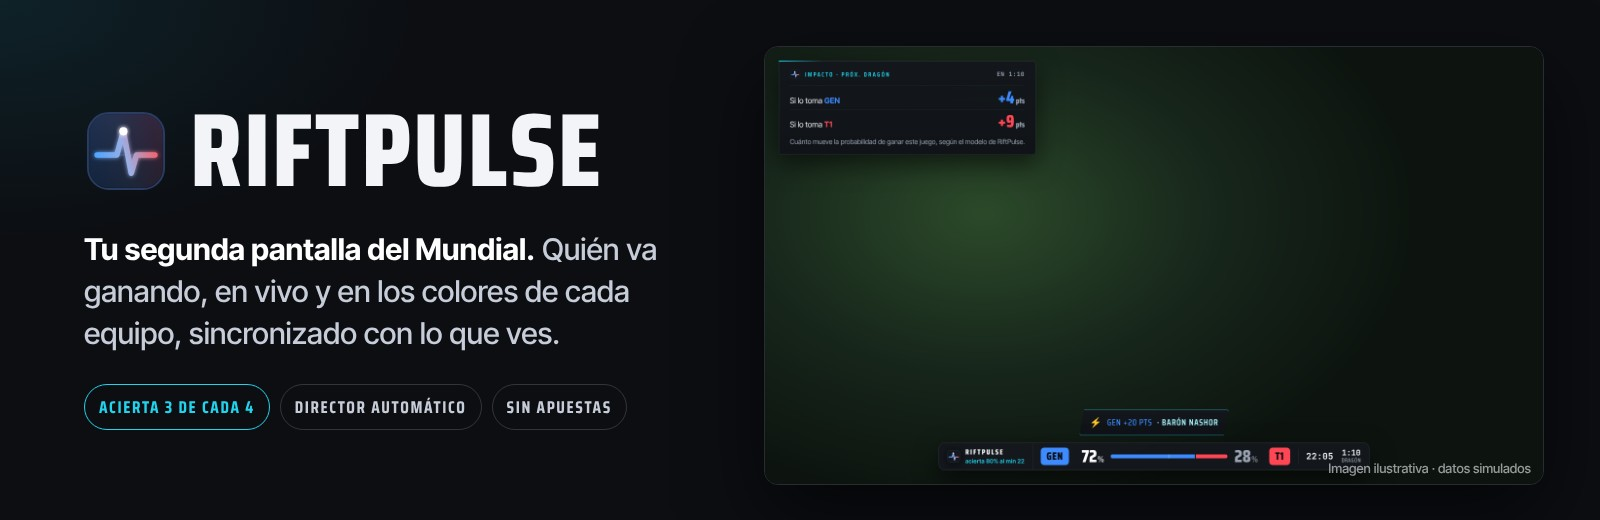
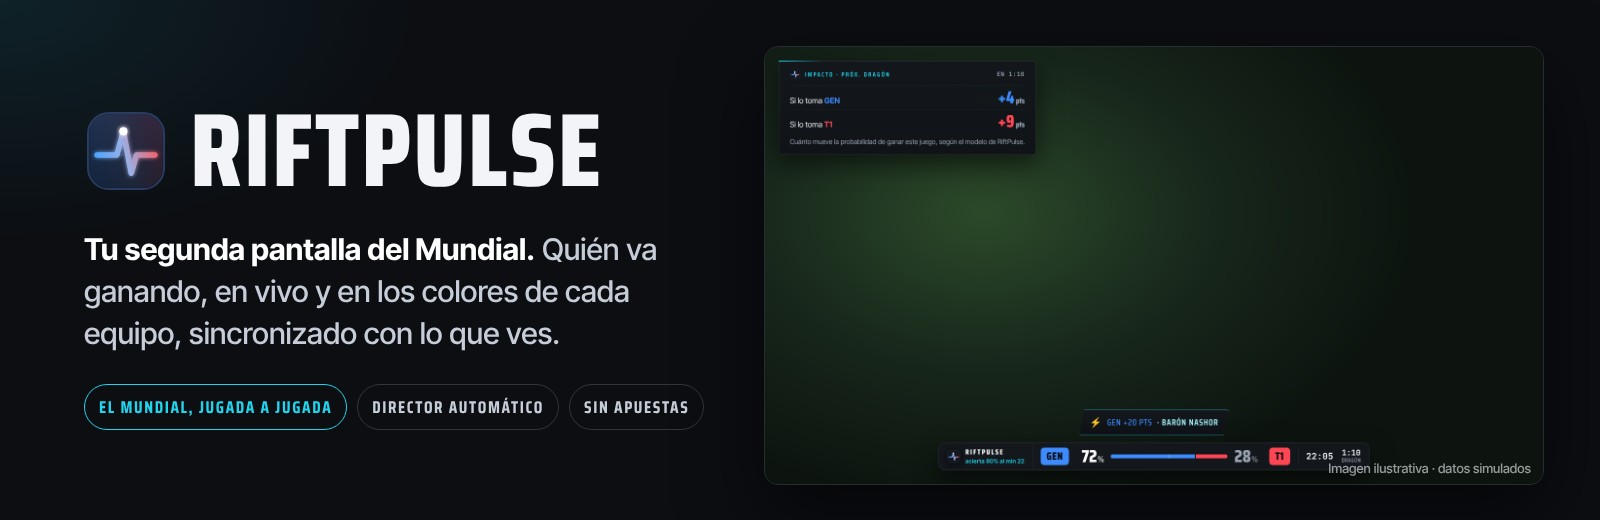
Slogan «El Mundial, jugada a jugada» (el acierto queda en «Cómo funciona»); página para Nick centrada en el Mundial y con galería de capturas; cinco capturas nuevas de la extensión; instalación en 3 pasos; Mando con «Pelea en equipo» y «Predicciones del staff»

Changed region(s): [[0.0625, 0.7385, 0.4375, 0.8308]]

diff --git a/app.html b/app.html
@@ -613,7 +613,7 @@ details.det summary::before{content:'▸ ';}details.det[open] summary::before{co
 <div id="tinte"><div class="city"></div><div class="grad"></div></div>
 <div class="wrap">
   <header class="top">
-    <div class="brand"><img class="logo" src="logo.svg" alt="RiftPulse"><div><div class="brand-t">RiftPulse</div><div class="brand-s">Tu segunda pantalla del Mundial</div><div class="brand-p" id="precHdr"></div><a class="brand-p" href="https://userf8a2c4.github.io/riftpulse-overlay/como-funciona.html" target="_blank" rel="noopener" style="color:var(--link);text-decoration:none">¿Cómo funciona? →</a></div></div>
+    <div class="brand"><img class="logo" src="logo.svg" alt="RiftPulse"><div><div class="brand-t">RiftPulse</div><div class="brand-s">Tu segunda pantalla del Mundial</div><div class="brand-p" id="precHdr">El Mundial, jugada a jugada</div><a class="brand-p" href="https://userf8a2c4.github.io/riftpulse-overlay/como-funciona.html" target="_blank" rel="noopener" style="color:var(--link);text-decoration:none">¿Cómo funciona? →</a></div></div>
     <nav class="tabs"><button id="tabAhora">Ahora</button><button id="tabCopa">Mundial</button><button id="tabHist">Historial</button><button id="tabMando" title="Centro de mando para streamers y analistas">Mando</button></nav>
     <div class="hstat">
       <select id="sel" title="Partido en vivo" hidden></select>
@@ -2464,7 +2464,7 @@ function calibTick() {
 const BACKTEST = {"fecha":"2026-10-16","juego":{"pre":{"juegos":589,"acc":0.6248,"brier":0.2208,"accAnt":0.6265,"brierAnt":0.2256},"m10":{"juegos":589,"acc":0.6842,"brier":0.2023,"accAnt":0.6418,"brierAnt":0.2187},"m15":{"juegos":589,"acc":0.7453,"brier":0.1729,"accAnt":0.7267,"brierAnt":0.1831},"m20":{"juegos":588,"acc":0.7857,"brier":0.145,"accAnt":0.7704,"brierAnt":0.1513},"m25":{"juegos":554,"acc":0.8357,"brier":0.1137,"accAnt":0.8303,"brierAnt":0.1172}},"eventos":"Prueba con 589 juegos de agosto a octubre de 2026 que el modelo no vio (ligas regionales e internacionales). Entrenado con 1658 juegos anteriores; la version activa usa los 2247 juegos"};
 const seriesP = (p, bo) => { const need = Math.ceil(bo / 2), f = (x, y) => x >= need ? 1 : y >= need ? 0 : p * f(x + 1, y) + (1 - p) * f(x, y + 1); return f(0, 0); };
 // Badge de precisión en la cabecera (siempre visible): dato real del backtest.
-try { const _j = BACKTEST && BACKTEST.juego, _e = $('#precHdr'); if (_e && _j && _j.m15) _e.textContent = 'Acierta ' + deCada(_j.m15.acc) + ' al minuto 15 · medido en ' + (_j.m15.juegos || 589) + ' juegos'; } catch (e) {}
+// el encabezado lleva el slogan; el acierto del modelo se explica en «¿Cómo funciona?»
 function eloStats(rows) {
   let gOk = 0, gN = 0, br = 0, sOk = 0;
   const bins = {};
@@ -3537,10 +3537,10 @@ function renderMxOv() {
   const chip = (key, label) => `<button class="mx-btn${o.ext.includes(key) ? ' on' : ''}" data-mx="ext" data-k="${key}"${dis}>${label}</button>`;
   $('#mxOv').innerHTML = `<div class="mx-h"><h2>Overlay en el stream</h2></div><div class="mx-scroll">
     <div class="mx-sub">En la barra</div><div class="mx-row" style="margin-top:0">${chip('obj', 'Próximo objetivo')}${chip('pg', 'Trayectoria')}
-      <button class="mx-btn${o.dmg ? ' on' : ''}" data-mx="dmg"${dis}>Daño tras cada pelea</button></div>
+      <button class="mx-btn${o.dmg ? ' on' : ''}" data-mx="dmg"${dis}>Pelea en equipo (5v5)</button></div>
     <div class="mx-sub">Paneles automáticos (aparecen solos cuando aportan)</div><div class="mx-row" style="margin-top:0">${['minimo', 'estandar', 'show'].map(k => `<button class="mx-btn${(o.director || 'estandar') === k ? ' on' : ''}" data-mx="dir" data-k="${k}"${dis}>${{minimo: 'Mínimo', estandar: 'Estándar', show: 'Show'}[k]}</button>`).join('')}<button class="mx-btn" data-mx="dirSaltar"${dis} title="Quita el panel automático que se está mostrando">⏭ Saltar panel</button></div>
-    <div class="mx-note" style="margin-top:4px">Mínimo: la barra y los giros. Estándar: además el objetivo que viene, el daño tras cada pelea y el resumen. Show: además el oro y los duelos de vez en cuando.</div>
-    <div class="mx-sub">Paneles fijos debajo de la barra</div><div class="mx-row" style="margin-top:0">${chip('oro', 'Gráfico de oro')}${chip('imp', 'Impacto y remontada')}${chip('duelos', 'Duelos por línea')}${chip('dano', 'Daño de los 10')}${chip('mini', 'Barra mínima (solo %)')}</div>
+    <div class="mx-note" style="margin-top:4px">Mínimo: la barra y los giros. Estándar: además el objetivo que viene y lo que pasó en cada pelea en equipo. Show: además el oro y los duelos de vez en cuando.</div>
+    <div class="mx-sub">Paneles fijos (opcional: si no, aparecen solos en su momento)</div><div class="mx-row" style="margin-top:0">${chip('oro', 'Gráfico de oro')}${chip('imp', 'Impacto y remontada')}${chip('duelos', 'Duelos por línea')}${chip('dano', 'Daño de los 10')}${chip('mini', 'Barra mínima (solo %)')}</div>
     <div class="mx-sub">Posición y visibilidad</div><div class="mx-row" style="margin-top:0">
       <button class="mx-btn${o.pos === 'top' ? ' on' : ''}" data-mx="pos" data-k="top"${dis}>Arriba</button><button class="mx-btn${o.pos === 'bottom' ? ' on' : ''}" data-mx="pos" data-k="bottom"${dis}>Abajo</button>
       <button class="mx-btn" data-mx="hide"${dis}>${o.hidden ? '👁 Mostrar overlay' : '🙈 Ocultar overlay'}</button></div>
@@ -3552,7 +3552,7 @@ function renderMxOv() {
 function renderMxObs() {
   const items = [['Director automático (recomendado · una sola URL)', 'overlay.html?view=auto'], ['Preset · solo barra (lower-third)', 'overlay.html?view=bar&modules=prob,timers,brand&pos=bottom'], ['Preset · alertas de giro (escena aparte)', 'overlay.html?view=alert'], ['Preset · entre mapas (serie)', 'overlay.html?view=serie'], ['Preset · cierre de juego (resumen)', 'overlay.html?view=recap'],
     ['Barra en vivo (completa)', 'overlay.html'], ['Serie', 'overlay.html?view=serie'], ['Duelos por línea', 'overlay.html?view=duelos'], ['Para remontar (sola)', 'overlay.html?view=remontada'],
-    ['Resumen del juego (solo)', 'overlay.html?view=recap'], ['Cuadro de eliminatorias', 'overlay.html?view=cuadro'], ['Predicciones del stream', 'overlay.html?view=predicciones'], ['Claves del momento', 'overlay.html?view=keys'], ['Alerta de giro', 'overlay.html?view=alert'], ['Mesa de análisis', 'analista.html'], ['Control de producción (dock)', 'control.html']];
+    ['Resumen del juego (solo)', 'overlay.html?view=recap'], ['Cuadro de eliminatorias', 'overlay.html?view=cuadro'], ['Predicciones del staff', 'overlay.html?view=predicciones'], ['Claves del momento', 'overlay.html?view=keys'], ['Alerta de giro', 'overlay.html?view=alert'], ['Mesa de análisis', 'analista.html'], ['Control de producción (dock)', 'control.html']];
   MX.obsAll = items.map(([l, u]) => l + ': ' + OBS_BASE + u).join('\n');
   $('#mxObs').innerHTML = `<div class="mx-h"><h2>Piezas para OBS</h2><button class="mx-btn${MX.copied === 'obsall' ? ' on' : ''}" data-mx="cp" data-k="obsall">${MX.copied === 'obsall' ? '✓ Copiadas' : '📋 Copiar todas'}</button></div><ul class="mx-obs">${items.map(([l, u], i) => `<li><b style="flex:none">${l}</b><span class="u">${OBS_BASE}${u}</span><button class="mx-cp${MX.copied === 'o' + i ? ' ok' : ''}" data-mx="cp" data-k="o${i}" data-u="${OBS_BASE}${u}">${MX.copied === 'o' + i ? '✓' : '📋'}</button></li>`).join('')}</ul>
     <div class="mx-note">Cada pieza va como <b>Navegador</b> (Browser Source) en OBS, 1920 × 1080. Agregá <code>&delay=42</code> para tu retraso, <code>&accent=ff8800</code> y <code>&logo=https://…</code> para tus colores y logo, <code>&safe=1</code> para márgenes amplios y <code>&brand=0</code> para quitar la marca. Con <code>?demo</code> se ven con un partido ya jugado.</div>`;

diff --git a/instalar.html b/instalar.html
@@ -89,31 +89,26 @@
 
   <!-- 1) extensión -->
   <section class="card" id="extension" hidden>
-    <h2>Sobre el video, en 4 pasos</h2>
-    <p class="lead">Tocá cada botón en orden. Al terminar un paso, marcalo con <b>Hecho</b> y pasá al siguiente.</p>
+    <h2>Sobre el video, en 3 pasos</h2>
+    <p class="lead">Una sola vez y listo.</p>
     <div class="aviso" id="navAviso" hidden></div>
-    <div class="aviso">⭐ <span><b>Muy pronto en la Chrome Web Store:</b> un clic en «Agregar a Chrome» y listo, sin estos pasos.</span></div>
     <div class="pasos" id="pasos">
       <div class="paso" data-p="1"><div class="n"><span>1</span></div>
-        <div><h3>Descargá RiftPulse</h3><p>Abrí el archivo descargado y tocá <b>Extraer todo</b> (en Mac, doble clic). Queda una carpeta llamada <b>RiftPulse</b>.</p></div>
-        <div class="acc"><a class="ib pri" href="riftpulse-extension.zip" download id="bajar">⬇ Descargar</a><button class="ib ok" data-hecho="1">Hecho</button></div></div>
+        <div><h3>Descargá y descomprimí</h3><p>Abrí el archivo y tocá <b>Extraer todo</b> (en Mac, doble clic): queda la carpeta <b>RiftPulse</b>.</p></div>
+        <div class="acc"><a class="ib pri" href="riftpulse-extension.zip" download id="bajar">⬇ Descargar</a></div></div>
       <div class="paso" data-p="2"><div class="n"><span>2</span></div>
-        <div><h3>Abrí la página de extensiones</h3><p>Copiá la dirección, pegala en la barra de direcciones de una pestaña nueva y apretá <b>Enter</b>. <span class="copiado" id="copiado"></span></p></div>
-        <div class="acc"><button class="ib pri" id="copiar">📋 Copiar <span id="dir">chrome://extensions</span></button><button class="ib ok" data-hecho="2">Hecho</button></div></div>
-      <div class="paso" data-p="3"><div class="n"><span>3</span></div>
-        <div><h3>Activá el «Modo de desarrollador»</h3><p id="dondeModo">Es el interruptor de <b>arriba a la derecha</b>.</p>
+        <div><h3>Abrí las extensiones y activá el «Modo de desarrollador»</h3><p>Pegá la dirección copiada en una pestaña nueva. <span id="dondeModo">El interruptor está <b>arriba a la derecha</b>.</span> <span class="copiado" id="copiado"></span></p>
           <div class="mock">Modo de desarrollador <span class="sw"></span></div></div>
-        <div class="acc"><button class="ib ok" data-hecho="3">Hecho</button></div></div>
-      <div class="paso" data-p="4"><div class="n"><span>4</span></div>
-        <div><h3>Tocá «Cargar descomprimida» y elegí la carpeta RiftPulse</h3><p>Si ya tenías una RiftPulse vieja, tocá <b>Quitar</b> en ella antes.</p>
+        <div class="acc"><button class="ib pri" id="copiar">📋 Copiar <span id="dir">chrome://extensions</span></button></div></div>
+      <div class="paso" data-p="3"><div class="n"><span>3</span></div>
+        <div><h3>«Cargar descomprimida» → carpeta RiftPulse</h3>
           <div class="mock"><span class="bt hl">Cargar descomprimida</span><span class="bt dim">Empaquetar extensión</span><span class="bt dim">Actualizar</span></div></div>
-        <div class="acc"><button class="ib ok" data-hecho="4">Hecho</button></div></div>
+        <div class="acc"><button class="ib ok" data-hecho="3">Listo</button></div></div>
     </div>
     <div class="listo" id="listo" hidden>
       <h3>¡Listo! 🎉</h3>
       <div>Abrí un partido en <a href="https://www.twitch.tv/riotgames" target="_blank" rel="noopener">twitch.tv</a> o <a href="https://lolesports.com" target="_blank" rel="noopener">lolesports.com</a>: RiftPulse aparece solo cuando el juego está en pantalla y se sincroniza con el minuto que ves. Para tener el panel a mano, tocá la pieza de rompecabezas 🧩 de la barra del navegador y fijá RiftPulse 📌.</div>
     </div>
-    <details><summary>Opcional: que se actualice sola</summary>En la página de extensiones → RiftPulse → <b>Detalles</b>, activá <b>«Permitir scripts de usuario»</b>. Así las mejoras del overlay te llegan sin volver a instalar. El panel ya se actualiza solo siempre.</details>
     <details><summary>¿Es seguro?</summary>RiftPulse solo trabaja en twitch.tv y lolesports.com, no lee ni envía nada de ninguna cuenta y la lectura del video ocurre en tu compu. El «Modo de desarrollador» solo permite instalar extensiones desde una carpeta; podés apagarlo después. No está afiliada a Riot Games.</details>
   </section>
 
@@ -155,7 +150,7 @@
   var ua = navigator.userAgent, nav = /Edg\//.test(ua) ? 'edge' : /OPR\//.test(ua) ? 'opera' : navigator.brave ? 'brave' : /Firefox\//.test(ua) ? 'firefox' : /Chrome\//.test(ua) ? 'chrome' : 'otro';
   var dir = {edge: 'edge://extensions', opera: 'opera://extensions', brave: 'brave://extensions'}[nav] || 'chrome://extensions';
   $('#dir').textContent = dir;
-  if (nav === 'edge') $('#dondeModo').innerHTML = 'Es el interruptor de la <b>columna de la izquierda</b>, abajo.';
+  if (nav === 'edge') $('#dondeModo').innerHTML = 'El interruptor está en la <b>columna de la izquierda</b>, abajo.';
   var av = $('#navAviso');
   if (movil) { av.hidden = false; av.classList.add('mal'); av.innerHTML = '📱 <span>La extensión es para la compu. En el celu usá RiftPulse <a href="#app">como app</a>.</span>'; }
   else if (nav === 'firefox' || nav === 'otro') { av.hidden = false; av.classList.add('mal'); av.innerHTML = '⚠ <span>La extensión funciona en <b>Chrome, Edge, Brave u Opera</b>. En este navegador podés usar RiftPulse <a href="#app">como app</a>.</span>'; }
@@ -168,7 +163,7 @@
   function pintar() {
     var h = hechos();
     document.querySelectorAll('.paso[data-p]').forEach(function (p) { p.classList.toggle('hecho', h.indexOf(+p.dataset.p) >= 0); });
-    $('#listo').hidden = h.indexOf(4) < 0;
+    $('#listo').hidden = h.indexOf(3) < 0;
   }
   document.querySelectorAll('[data-hecho]').forEach(function (b) { b.addEventListener('click', function () { marcar(+b.dataset.hecho); }); });
   $('#bajar').addEventListener('click', function () { marcar(1); });

diff --git a/nick.html b/nick.html
@@ -61,6 +61,11 @@
   .ask p{margin:0 0 10px}.ask p:last-child{margin:0}
   ul.calm{margin:0;padding-left:20px;color:var(--text)}
   ul.calm li{margin:4px 0}
+  .gal{display:grid;grid-template-columns:repeat(3,1fr);gap:10px;margin-top:10px}
+  @media(max-width:700px){.gal{grid-template-columns:1fr}}
+  .gal a{display:block;border-radius:12px;overflow:hidden;border:1px solid var(--line)}.gal img{display:block;width:100%;height:auto}
+  .gal figcaption,.shot figcaption{font-size:12.5px;color:var(--muted);text-align:center;margin-top:4px}
+  .shot{margin:14px 0 0}.shot img{display:block;width:100%;border-radius:14px;border:1px solid var(--line)}
   .sign{margin-top:44px;font-size:18px}
   .sign .x{display:inline-flex;align-items:center;gap:8px;margin-top:14px}
   footer{border-top:1px solid var(--line);margin-top:40px;padding-top:14px;color:var(--muted);font-size:12px;line-height:1.6}
@@ -105,16 +110,22 @@
     <div class="card"><div class="ic">🎙</div><h3>Guion listo para leer</h3><p>En el panel (Mando), frases para decir al aire: quién va ganando y por qué, la figura de la última pelea, qué necesita el que va abajo y el momento justo para un clip.</p></div>
     <div class="card"><div class="ic">🗳</div><h3>Predicciones del staff</h3><p>Cargás los picks tuyos y de tus co-casters, los aciertos se marcan solos al terminar cada partido y la tabla sale en pantalla con una URL. Ideal para picarse con el chat.</p></div>
   </div>
-  <img src="docs/img/predicciones.png" alt="Predicciones del staff en pantalla (datos de ejemplo)" loading="lazy" style="display:block;width:100%;border-radius:14px;border:1px solid var(--line);margin-top:14px">
-  <p class="snote">Predicciones del staff en pantalla (datos de ejemplo). También tenés la <a href="analista.html?demo" target="_blank" rel="noopener" style="color:var(--link)">mesa de análisis</a> para una segunda pantalla.</p>
+  <figure class="shot"><img src="docs/img/predicciones.png" alt="Predicciones del staff en pantalla" loading="lazy"><figcaption>Predicciones del staff en pantalla (datos de ejemplo)</figcaption></figure>
+  <figure class="shot"><img src="docs/chrome-web-store/5-mando.png" alt="Mando: guion y predicciones del staff" loading="lazy"><figcaption>Mando, en el panel: el guion para comentar y las predicciones del staff. También tenés la <a href="analista.html?demo" target="_blank" rel="noopener" style="color:var(--link)">mesa de análisis</a> para una segunda pantalla.</figcaption></figure>
 
   <h2>Para tu chat</h2>
   <div class="grid">
     <div class="card"><div class="ic">🖥</div><h3>La extensión, sobre el video</h3><p>Cada uno ve la probabilidad encima del partido en Twitch o lolesports, <b>sincronizada sola con el minuto que está viendo</b>: en vivo, en un VOD o en tu co-stream con su retraso. Aparece solo cuando el juego está en pantalla.</p></div>
     <div class="card"><div class="ic">📱</div><h3>La app, con todo el Mundial</h3><p>El partido en vivo, la fase suiza, las eliminatorias, el pronóstico de cada uno contra RiftPulse y un modo sin spoilers para ver los VOD.</p></div>
   </div>
-  <img src="docs/chrome-web-store/1-overlay.png" alt="La extensión sobre el video del partido" loading="lazy" style="display:block;width:100%;border-radius:14px;border:1px solid var(--line);margin-top:14px">
-  <p class="snote"><b>Si tu chat lo usa, todos miran el mismo número que vos.</b> Se instala en un minuto desde <a href="instalar.html" style="color:var(--link)">riftpulse · Instalar</a>.</p>
+  <figure class="shot"><img src="docs/chrome-web-store/1-overlay.png" alt="La extensión sobre el video del partido" loading="lazy"><figcaption>La extensión sobre el video, con el panel de una pelea en equipo (video de prueba)</figcaption></figure>
+  <div class="gal">
+    <figure style="margin:0"><a href="docs/chrome-web-store/2-panel.png" target="_blank" rel="noopener"><img src="docs/chrome-web-store/2-panel.png" alt="El video con el panel lateral" loading="lazy"></a><figcaption>El video con el panel lateral</figcaption></figure>
+    <figure style="margin:0"><a href="docs/chrome-web-store/3-ahora.png" target="_blank" rel="noopener"><img src="docs/chrome-web-store/3-ahora.png" alt="La app en Ahora" loading="lazy"></a><figcaption>La app: el partido en vivo</figcaption></figure>
+    <figure style="margin:0"><a href="docs/chrome-web-store/4-mundial.png" target="_blank" rel="noopener"><img src="docs/chrome-web-store/4-mundial.png" alt="La fase suiza" loading="lazy"></a><figcaption>La app: todo el Mundial</figcaption></figure>
+  </div>
+  <p class="snote"><b>Si tu chat lo usa, todos miran el mismo número que vos.</b> </p>
+  <div class="cta" style="margin-top:12px"><a class="btn primary" href="instalar.html#extension">⬇ Instalar la extensión (3 pasos, 1 minuto)</a><a class="btn" href="app.html">📱 Abrir la app (sin instalar)</a></div>
 
   <h2>Probarlo te lleva un minuto</h2>
   <ol class="steps">
@@ -127,7 +138,7 @@
   <div class="ask">
     <p><b>Nada obligatorio.</b> Es gratis y no te pido nada a cambio.</p>
     <p>Si lo probás un rato en una partida y me contás qué te gustó y qué no, ya me ayudás muchísimo. Y si te convence y te dan ganas de mostrarlo en el stream, para mí sería enorme.</p>
-    <p>Ya podés ponerle <b>los colores de tu canal o del SoloBoom y tu logo</b> con solo agregarlos a la URL (<code>&amp;tema=canal&amp;accent=…&amp;logo=…</code>). Las predicciones del staff también están listas para usar. Y si se te ocurre una pieza que le falta, la hago.</p>
+    <p>Ya podés ponerle <b>los colores de tu canal y tu logo</b> con solo agregarlos a la URL (<code>&amp;tema=canal&amp;accent=…&amp;logo=…</code>). Las predicciones del staff también están listas para usar. Y si se te ocurre una pieza que le falta, la hago.</p>
   </div>
 
   <h2>Para que estés tranquilo</h2>

diff --git a/pruebas/captura-extension.js b/pruebas/captura-extension.js
@@ -1,5 +1,7 @@
-// Captura de la extensión para la Chrome Web Store y el pitch (docs/chrome-web-store/1-overlay.png, 1280×800):
-// el overlay real sobre el video de prueba generado (no es una transmisión real), con un panel de pelea en equipo de ejemplo.
+// Capturas de la extensión para la Chrome Web Store y el pitch (docs/chrome-web-store/, 1280×800): node pruebas/captura-extension.js
+// 1: el overlay sobre el video de prueba generado (no es una transmisión real), con un panel de pelea en equipo de ejemplo.
+// 2: el video con el panel lateral abierto. 3: la app en «Ahora». 4: el Mundial. 5: Mando con el guion y las predicciones del staff.
+// Partidos y datos del simulador de las pruebas.
 const {chromium} = require('playwright'), fs = require('fs'), path = require('path');
 process.env.RP_FUENTES = '1';
 const {montar, RAIZ} = require('./mocks');
@@ -18,6 +20,47 @@ const {montar, RAIZ} = require('./mocks');
       red: [J('Top', 0, 1, 0, -1.6, 'físico'), J('Jungla', 0, 1, 1, -0.4, 'mixto'), J('Mid', 1, 1, 0, 1.1, 'mágico'), J('ADC', 0, 0, 1, 0.5, 'físico'), J('Soporte', 0, 0, 0, 0, 'mágico')]}})}));
   });
   await p.waitForTimeout(1500);
-  await p.screenshot({path: path.join(RAIZ, 'docs', 'chrome-web-store', '1-overlay.png'), clip: {x: 100, y: 20, width: 1280, height: 800}});
-  await b.close(); console.log('Captura en docs/chrome-web-store/1-overlay.png');
+  const OUT = path.join(RAIZ, 'docs', 'chrome-web-store');
+  await p.screenshot({path: path.join(OUT, '1-overlay.png'), clip: {x: 100, y: 20, width: 1280, height: 800}});
+  await ctx.close();
+
+  // 2) el video con el panel lateral (como en Chrome: el video a la izquierda y RiftPulse a la derecha)
+  const c2 = await b.newContext({viewport: {width: 1280, height: 800}, colorScheme: 'dark'}); await montar(c2, {video: 'desk.webm'});
+  const q = await c2.newPage(); q.on('pageerror', e => console.log('error de página:', e.message));
+  await q.goto('https://www.twitch.tv/videos/1');
+  await q.evaluate(() => {
+    localStorage.setItem('rp_bienv', '1');
+    document.body.style.background = '#0e0e10';
+    const v = document.getElementById('v'); v.style.cssText = 'position:absolute;left:12px;top:150px;width:840px;height:472px'; v.load(); v.play();
+    const f = document.createElement('iframe'); f.src = 'https://userf8a2c4.github.io/riftpulse-overlay/app.html'; f.id = 'panel';
+    f.style.cssText = 'position:absolute;right:0;top:0;width:416px;height:800px;border:0;border-left:1px solid #2a2f3a;background:#0C0E12'; document.body.appendChild(f);
+    const t = document.createElement('div'); t.textContent = 'IG vs LYON · Worlds 2026 · VOD (video de prueba)'; t.style.cssText = 'position:absolute;left:14px;top:630px;color:#c9d0db;font:600 15px system-ui'; document.body.appendChild(t);
+  });
+  for (const f of ['engine.js', 'ext-overlay.js']) await q.addScriptTag({content: fs.readFileSync(path.join(RAIZ, f), 'utf8')});
+  await q.waitForTimeout(12000);
+  const fr = q.frames().find(f => /app\.html/.test(f.url()));
+  if (fr) await fr.evaluate(() => { const i = document.getElementById('instBtn'); if (i) i.hidden = true; });
+  await q.evaluate(() => document.getElementById('v').pause());
+  await q.waitForTimeout(800);
+  await q.screenshot({path: path.join(OUT, '2-panel.png')});
+  await c2.close();
+
+  // 3, 4 y 5) la app: «Ahora», el Mundial y Mando
+  const c3 = await b.newContext({viewport: {width: 1280, height: 800}, colorScheme: 'dark'}); await montar(c3);
+  const a = await c3.newPage(); a.on('pageerror', e => console.log('error de página:', e.message));
+  await a.goto('https://userf8a2c4.github.io/riftpulse-overlay/app.html'); await a.waitForTimeout(6000);
+  await a.evaluate(() => { const i = document.getElementById('instBtn'); if (i) i.hidden = true; });
+  await a.screenshot({path: path.join(OUT, '3-ahora.png')});
+  await a.evaluate(() => { setVista('copa'); window.scrollTo(0, 0); }); await a.waitForTimeout(2500);
+  await a.screenshot({path: path.join(OUT, '4-mundial.png')});
+  await a.evaluate(async () => {
+    setVista('mando'); await new Promise(r => setTimeout(r, 2500));
+    ['Nick', 'Co-caster', 'Invitado'].forEach(n => { document.getElementById('spName').value = n; spAdd(); });
+    SP.title = 'Predicciones del stream'; spLoad(); await new Promise(r => setTimeout(r, 1500));
+    const picks = {1: 'T1', 2: 'MKOI', 3: 'T1'}; for (const who in picks) { const bt = document.querySelector('[data-sp-who="' + who + '"][data-sp-t="' + picks[who] + '"]'); if (bt) bt.click(); }
+    document.getElementById('mxObs').style.display = 'none'; document.getElementById('mxRead').scrollIntoView({block: 'start'}); window.scrollBy(0, -12);
+  });
+  await a.waitForTimeout(1200);
+  await a.screenshot({path: path.join(OUT, '5-mando.png')});
+  await b.close(); console.log('Capturas en docs/chrome-web-store/');
 })();

diff --git a/pruebas/imagenes.js b/pruebas/imagenes.js
@@ -148,7 +148,7 @@ const GRIETA = 'radial-gradient(900px 600px at 28% 38%,#2c4a2a,#17261b 55%,#0d14
     <div style="position:absolute;left:84px;top:104px;width:620px">
       <div style="display:flex;align-items:center;gap:22px"><div style="width:84px;height:84px">${logo.replace('<svg', '<svg width="84" height="84"')}</div><div style="font:800 104px 'Saira Condensed';letter-spacing:2px;line-height:.9">RIFTPULSE</div></div>
       <div style="margin-top:30px;font:500 30px/1.4 'Inter Tight';color:#C7CDD8"><b style="color:#fff">Tu segunda pantalla del Mundial.</b> Quién va ganando, en vivo y en los colores de cada equipo, sincronizado con lo que ves.</div>
-      <div style="display:flex;gap:10px;margin-top:30px">${['Acierta 3 de cada 4', 'Director automático', 'Sin apuestas'].map((t, i) => `<span style="white-space:nowrap;font:700 17px 'Saira Condensed';letter-spacing:1.6px;text-transform:uppercase;padding:9px 14px;border-radius:999px;border:1px solid ${i ? 'rgba(220,226,236,.18)' : '#22D3EE'};color:${i ? '#C7CDD8' : '#22D3EE'}">${t}</span>`).join('')}</div></div>
+      <div style="display:flex;gap:10px;margin-top:30px">${['El Mundial, jugada a jugada', 'Director automático', 'Sin apuestas'].map((t, i) => `<span style="white-space:nowrap;font:700 17px 'Saira Condensed';letter-spacing:1.6px;text-transform:uppercase;padding:9px 14px;border-radius:999px;border:1px solid ${i ? 'rgba(220,226,236,.18)' : '#22D3EE'};color:${i ? '#C7CDD8' : '#22D3EE'}">${t}</span>`).join('')}</div></div>
     <div style="position:absolute;right:56px;top:46px;width:780px;height:439px;border-radius:14px;overflow:hidden;border:1px solid rgba(220,226,236,.14);box-shadow:0 30px 80px rgba(0,0,0,.6)"><img src="${img(path.join(TMP, 'transmision.png'))}" style="width:100%;height:100%;object-fit:cover;display:block">
       <div style="position:absolute;right:12px;bottom:8px;font:500 13px 'Inter Tight';color:rgba(242,244,247,.6)">Imagen ilustrativa · datos simulados</div></div></div>`);
   await p.waitForTimeout(1500); await p.screenshot({path: path.join(OUT, 'banner.jpg'), type: 'jpeg', quality: 90});

diff --git a/index.html b/index.html
@@ -96,7 +96,7 @@
     <div class="card"><b>🎛 Mesa de análisis</b><div class="pvnote" style="text-align:left;margin-top:4px">Segunda pantalla para casters: probabilidad, el porqué, momentum y <b>puntos listos para comentar</b>. <a href="analista.html" style="color:var(--link)">Abrir Mesa →</a></div></div>
     <div class="card"><b>🎬 Paquete de gráficos</b><div class="pvnote" style="text-align:left;margin-top:4px">Varias piezas para OBS, cada una es su propia URL (Browser Source). Cópialas abajo.</div></div>
     <div class="card"><b>🎚 Control de producción</b><div class="pvnote" style="text-align:left;margin-top:4px">Enciende/apaga módulos y dispara alertas en vivo. <a href="control.html" style="color:var(--link)">Abrir control →</a> · añádelo en OBS como Dock de navegador.</div></div>
-    <div class="card"><b>📊 Mismo motor</b><div class="pvnote" style="text-align:left;margin-top:4px">Todo sale del mismo modelo, que <span class="ok">acierta 3 de cada 4 juegos al min 15</span>. Credibilidad en cada gráfico.</div></div>
+    <div class="card"><b>📊 Mismo motor</b><div class="pvnote" style="text-align:left;margin-top:4px">Todo sale del mismo modelo, con su acierto medido a la vista (<a href="como-funciona.html" style="color:var(--link)">cómo funciona</a>). El mismo número en cada gráfico.</div></div>
   </div>
   <p class="pvnote" style="text-align:left;margin-top:10px">Vistas del paquete (clic para copiar su URL):</p>
   <div id="packurls" class="cta" style="gap:8px"></div>

diff --git a/INSTRUCCIONES-NICK.md b/INSTRUCCIONES-NICK.md
@@ -30,13 +30,17 @@ No es un número inventado: es un modelo entrenado con más de 2.200 juegos prof
 - 📊 **Mesa de análisis** para una segunda pantalla.
 
 <p align="center"><img src="docs/img/predicciones.png" width="720" alt="Predicciones del staff (datos de ejemplo)"></p>
+<p align="center"><img src="docs/chrome-web-store/5-mando.png" width="720" alt="Mando: guion y predicciones del staff"></p>
 
 ## Para tu chat
 
 - 🖥 **La extensión, sobre el video.** Cada uno ve la probabilidad encima del partido en Twitch o lolesports, sincronizada sola con el minuto que está viendo: en vivo, en un VOD o en tu co-stream con su retraso. Aparece solo cuando el juego está en pantalla.
 - 📱 **La app, con todo el Mundial.** El partido en vivo, la fase suiza, las eliminatorias, el pronóstico de cada uno contra RiftPulse y un modo sin spoilers.
 
-**Si tu chat lo usa, todos miran el mismo número que vos.** Se instala en un minuto desde [la página Instalar](https://userf8a2c4.github.io/riftpulse-overlay/instalar.html).
+<p align="center"><img src="docs/chrome-web-store/1-overlay.png" width="720" alt="La extensión sobre el video"></p>
+<p align="center"><img src="docs/chrome-web-store/2-panel.png" width="360" alt="El video con el panel lateral"> <img src="docs/chrome-web-store/3-ahora.png" width="360" alt="La app en Ahora"></p>
+
+**Si tu chat lo usa, todos miran el mismo número que vos.** 👉 **[Instalar la extensión](https://userf8a2c4.github.io/riftpulse-overlay/instalar.html#extension)** (3 pasos, 1 minuto) o **[abrir la app](https://userf8a2c4.github.io/riftpulse-overlay/app.html)** sin instalar nada.
 
 ## Probarlo te lleva un minuto
 
@@ -50,7 +54,7 @@ No es un número inventado: es un modelo entrenado con más de 2.200 juegos prof
 
 Si lo probás un rato en una partida y me contás qué te gustó y qué no, ya me ayudás muchísimo. Y si te convence y te dan ganas de mostrarlo en el stream, para mí sería enorme.
 
-Ya podés ponerle **los colores de tu canal o del SoloBoom y tu logo** con solo agregarlos a la URL (`&tema=canal&accent=` y `&logo=`). Las predicciones del staff también están listas para usar. Y si se te ocurre una pieza que le falta, la hago.
+Ya podés ponerle **los colores de tu canal y tu logo** con solo agregarlos a la URL (`&tema=canal&accent=` y `&logo=`). Las predicciones del staff también están listas para usar. Y si se te ocurre una pieza que le falta, la hago.
 
 ## Para que estés tranquilo
 

diff --git a/docs/chrome-web-store/FICHA.md b/docs/chrome-web-store/FICHA.md
@@ -5,7 +5,7 @@ Todo lo que pide la tienda ya está listo; solo falta subirlo con tu cuenta.
 ## Lo que hacés vos (una sola vez, ~20 minutos)
 1. Entrá a la [consola de desarrolladores de Chrome Web Store](https://chrome.google.com/webstore/devconsole) con tu cuenta de Google y pagá la inscripción única (5 USD).
 2. **Nuevo elemento** → subí `riftpulse-extension-tienda.zip` (está en la raíz de este repositorio y en la página: `https://userf8a2c4.github.io/riftpulse-overlay/riftpulse-extension-tienda.zip`).
-3. Copiá los textos de abajo en cada campo, subí las tres capturas de esta carpeta y el ícono `extension/icon128.png`.
+3. Copiá los textos de abajo en cada campo, subí las cinco capturas de esta carpeta y el ícono `extension/icon128.png`.
 4. **Enviar para revisión.** Suele tardar de 1 a 3 días.
 
 Después, cada versión nueva se sube igual (otro ZIP con la versión mayor) y les llega sola a todos los que la instalaron.
@@ -49,5 +49,9 @@ Es pronóstico y análisis, sin apuestas. No está avalado por Riot Games. Leagu
 
 ## Capturas (1280 × 800)
 - `1-overlay.png`: el overlay sobre el video (video de prueba generado, no es una transmisión real).
-- `2-ahora.png`: la app en «Ahora».
-- `3-mundial.png`: la fase suiza.
+- `2-panel.png`: el video con el panel lateral abierto.
+- `3-ahora.png`: la app en «Ahora».
+- `4-mundial.png`: la fase suiza.
+- `5-mando.png`: Mando, con el guion y las predicciones del staff.
+
+Se regeneran con `node pruebas/captura-extension.js` (datos del simulador de las pruebas).

diff --git a/wiki/Extensión-para-espectadores.md b/wiki/Extensión-para-espectadores.md
@@ -8,11 +8,11 @@ La extensión pone RiftPulse **encima del video** de Twitch o de lolesports.com 
 
 La forma más fácil: **[la página Instalar](https://userf8a2c4.github.io/riftpulse-overlay/instalar.html)**. Elegís qué querés (sobre el video, como app o para tu stream) y te guía con un botón por paso.
 
-1. **Descargá** el [ZIP](https://userf8a2c4.github.io/riftpulse-overlay/riftpulse-extension.zip) y extraelo: queda una carpeta **RiftPulse** (adentro, `INSTALAR.html` repite estos pasos con doble clic).
-2. Abrí `chrome://extensions` (o `edge://extensions`, `brave://extensions`, `opera://extensions`).
-3. Activá el **Modo de desarrollador**.
-4. **Cargar descomprimida** → elegí la carpeta **RiftPulse**. Si ya tenías una vieja, quitala antes.
-5. Opcional: en RiftPulse → **Detalles**, activá **«Permitir scripts de usuario»** para que el overlay se actualice solo desde la web.
+1. **Descargá** el [ZIP](https://userf8a2c4.github.io/riftpulse-overlay/riftpulse-extension.zip) y extraelo: queda la carpeta **RiftPulse**.
+2. Abrí `chrome://extensions` (o `edge://`, `brave://`, `opera://extensions`) y activá el **Modo de desarrollador**.
+3. **Cargar descomprimida** → carpeta **RiftPulse**. Listo.
+
+Opcional: en RiftPulse → **Detalles**, **«Permitir scripts de usuario»** hace que el overlay se actualice solo desde la web.
 
 Desde ahí no hay nada que descargar: el panel siempre abre la última versión, y el overlay se renueva al tocar ↻ en la extensión, al abrir el navegador y cada 6 horas.
 
